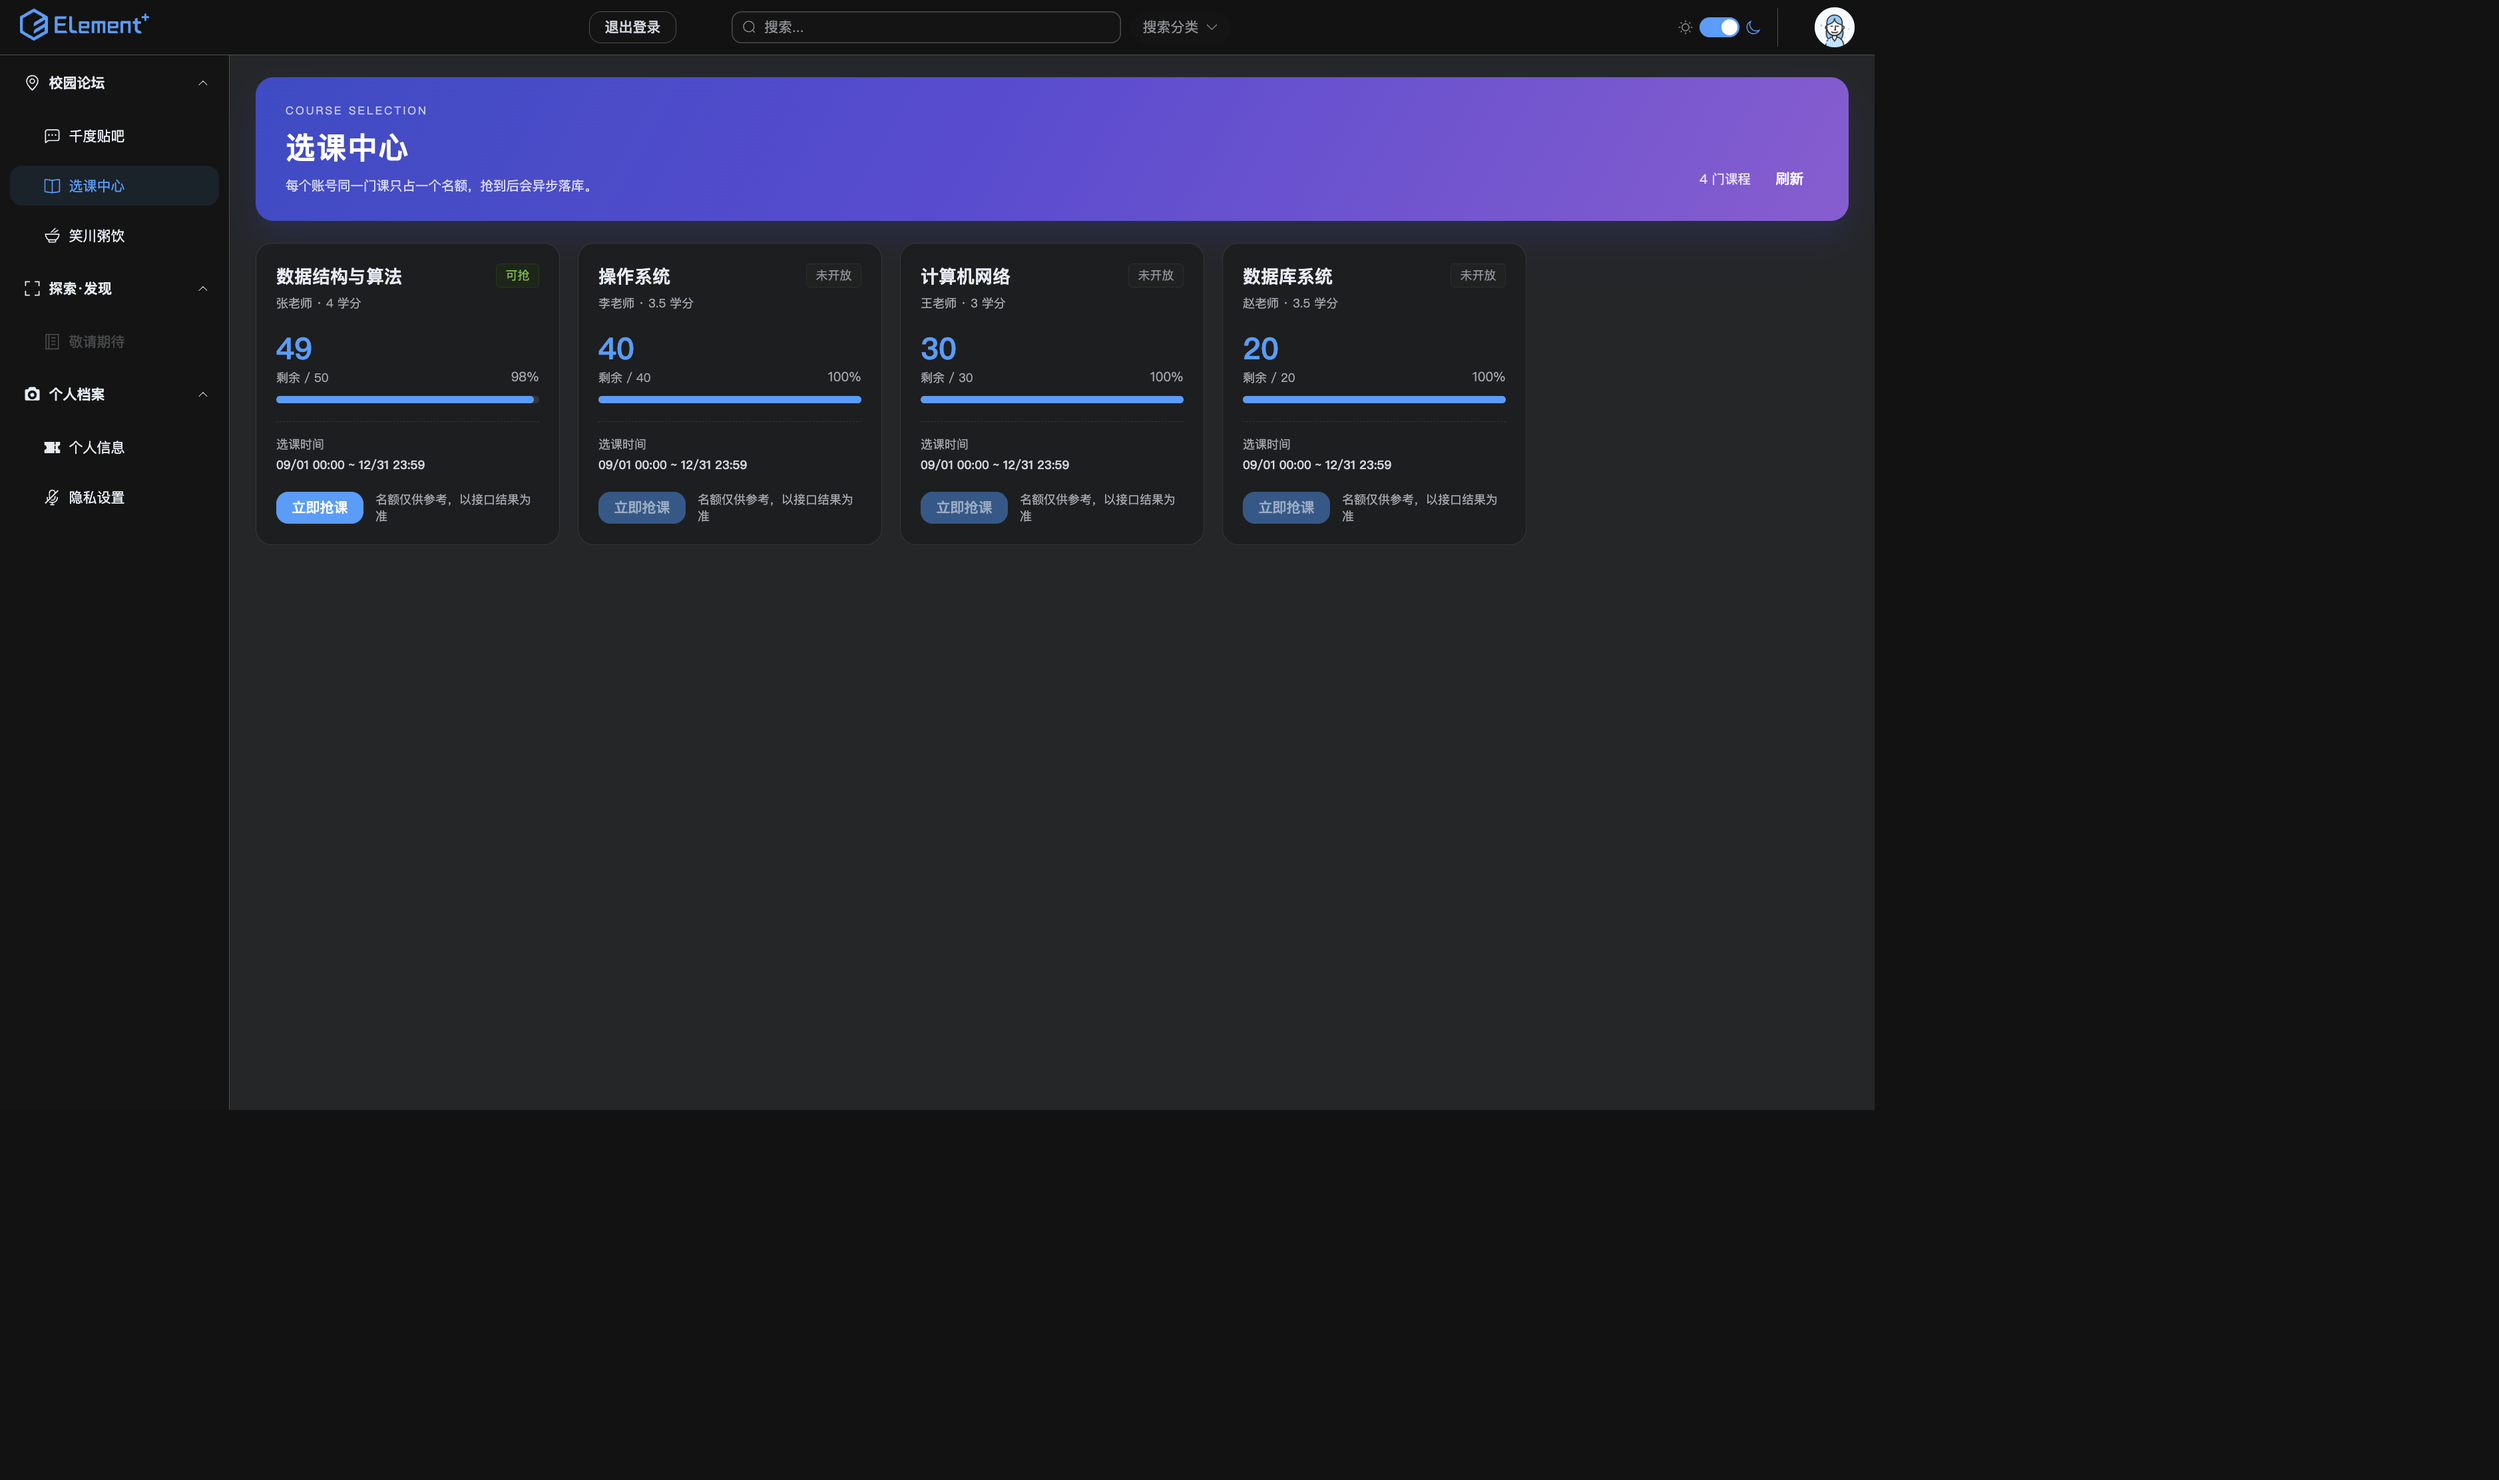
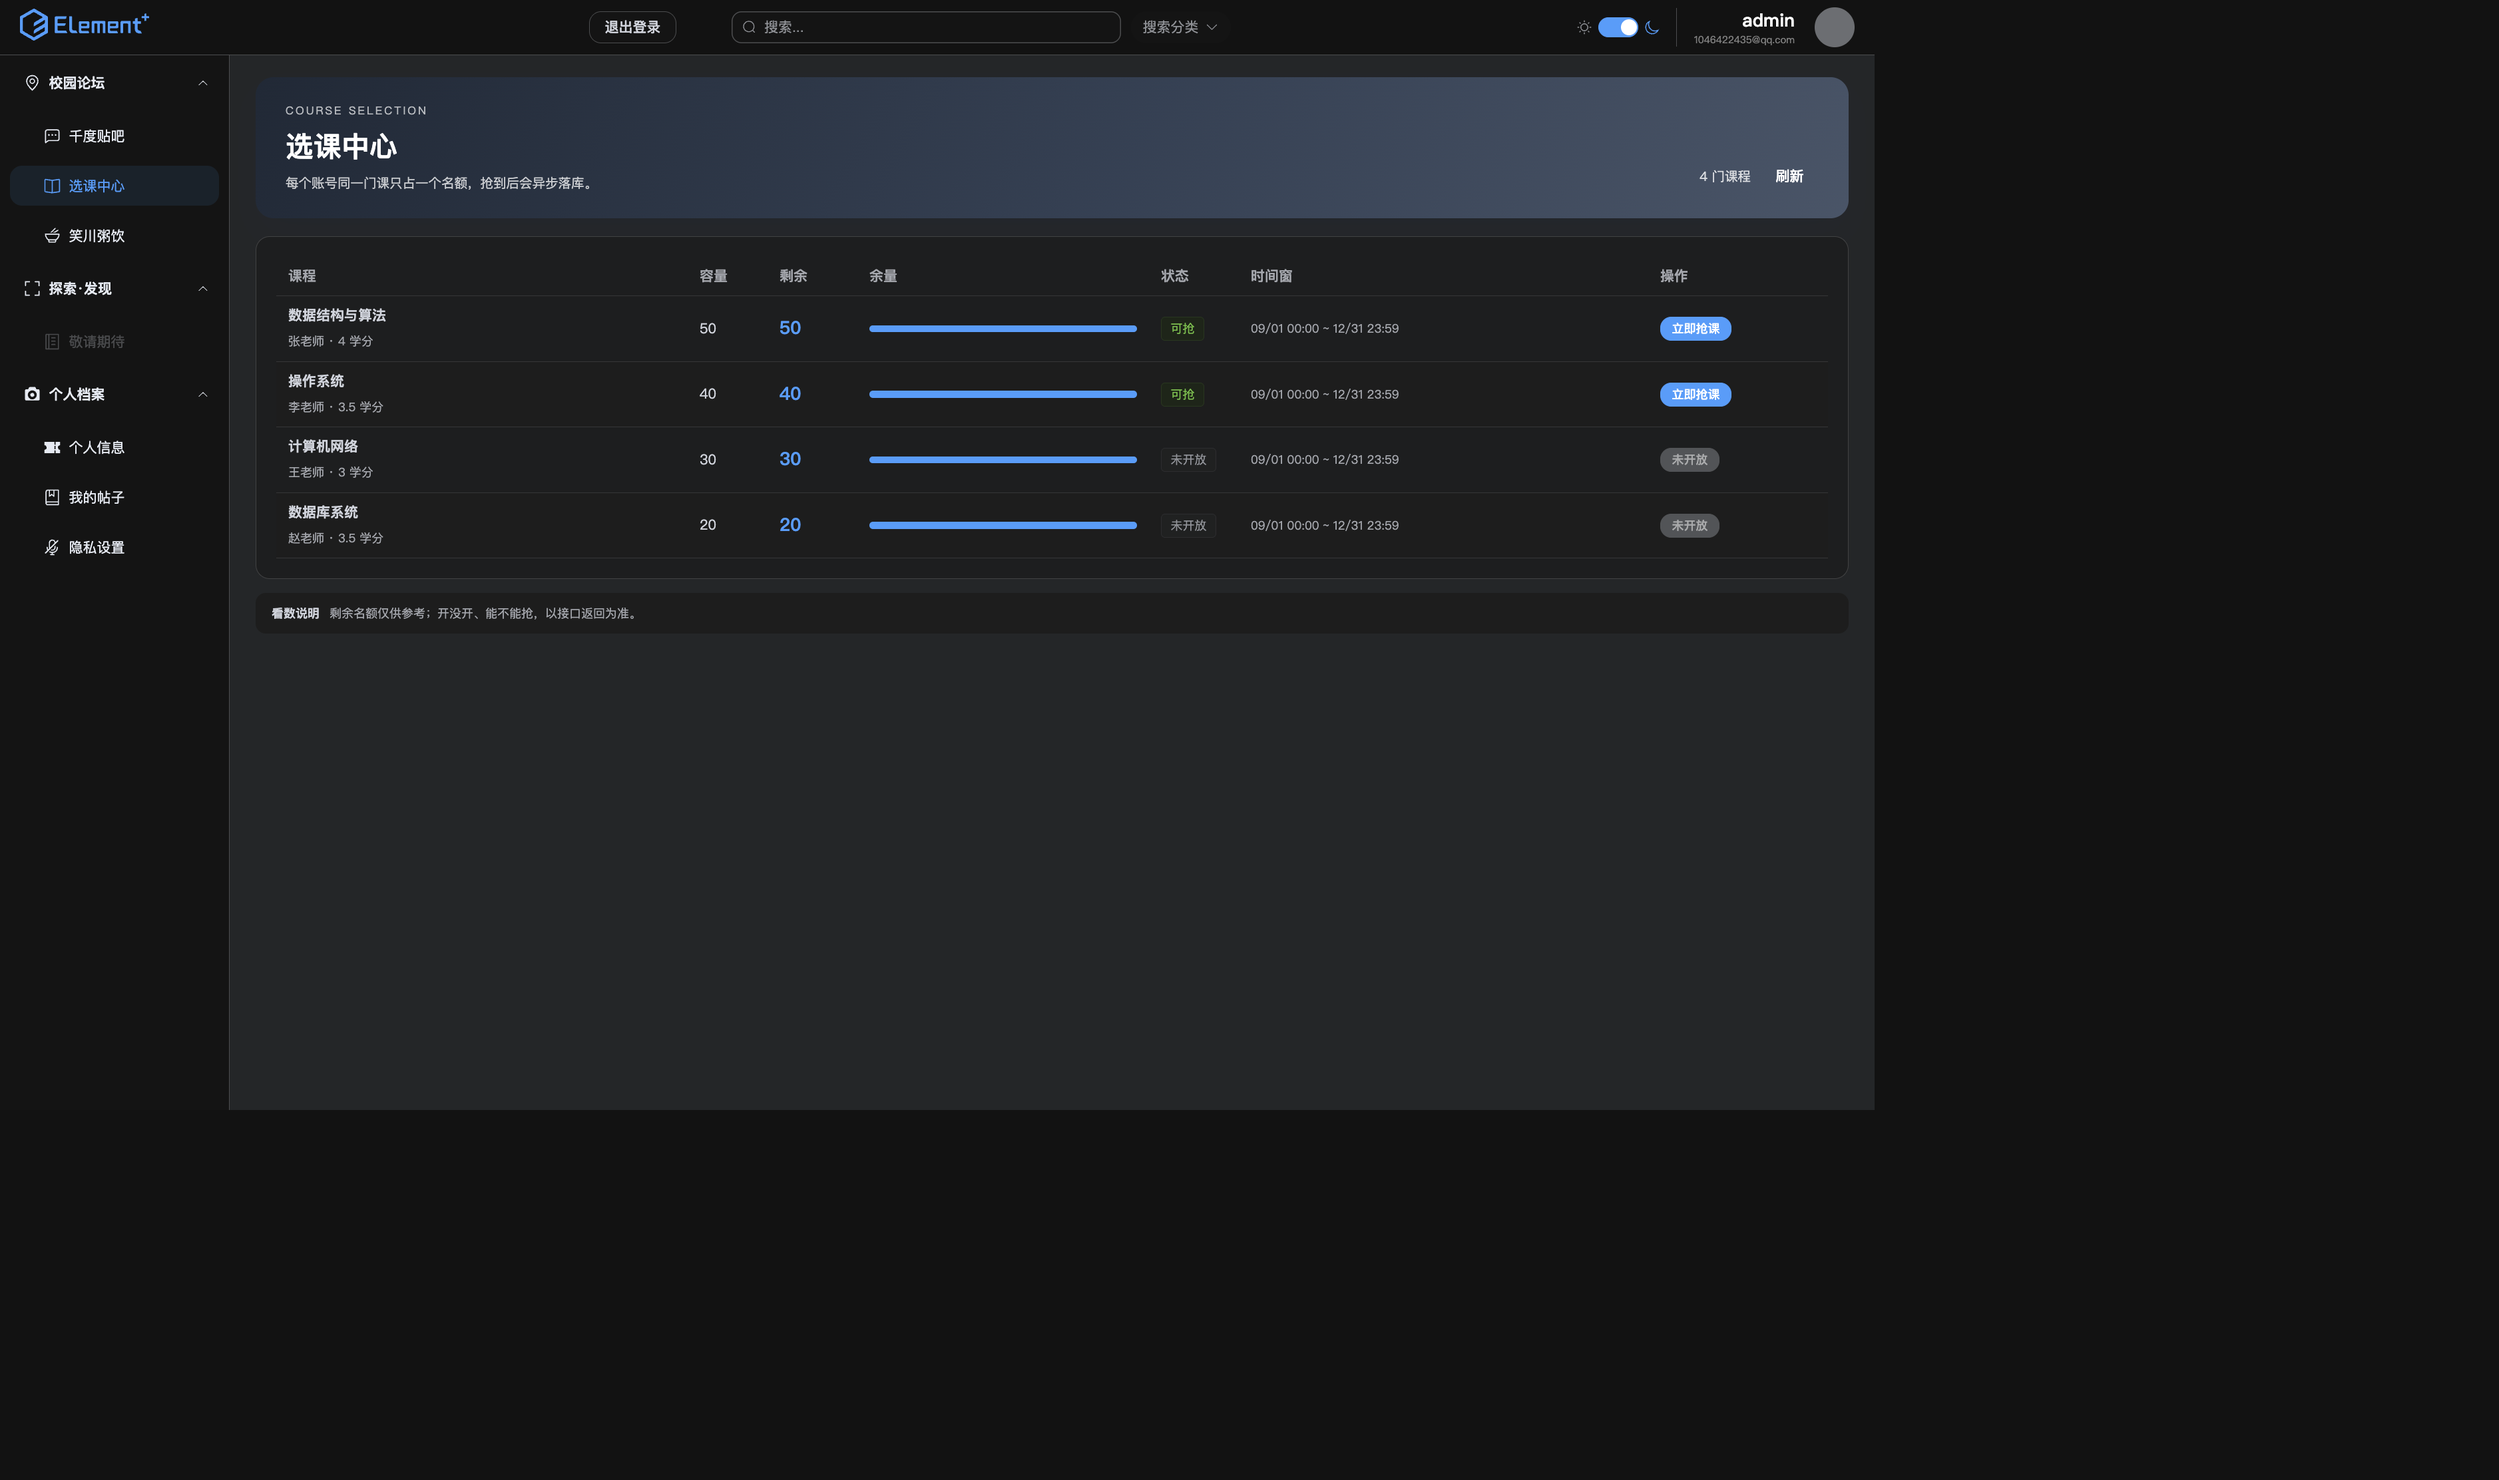
style: 选课页改成与课程管理一致的表格卡片

diff --git a/my-project-frontend/src/views/course/CourseSelection.vue b/my-project-frontend/src/views/course/CourseSelection.vue
@@ -61,6 +61,13 @@ function formatWindow(course) {
   return `${fmt(course.selectStart)} ~ ${fmt(course.selectEnd)}`
 }
 
+function buttonLabel(course) {
+  const state = stateOf(course.id)
+  if (state.busy) return '处理中'
+  const status = statusOf(course)
+  return status.canGrab ? '立即抢课' : status.label
+}
+
 function stopTimer(id) {
   const timer = timers.get(id)
   if (timer) {
@@ -154,46 +161,61 @@ onUnmounted(() => {
       </div>
     </div>
 
-    <div v-loading="loading" class="course-grid">
-      <el-card v-for="course in courses" :key="course.id" class="course-card" shadow="hover">
-        <div class="card-head">
-          <div>
-            <h3>{{ course.name }}</h3>
-            <div class="meta">{{ course.teacher }} · {{ course.credit }} 学分</div>
-          </div>
-          <el-tag :type="statusOf(course).type" effect="light">
-            {{ statusOf(course).label }}
-          </el-tag>
-        </div>
+    <el-card class="table-card" shadow="never">
+      <el-table v-loading="loading" :data="courses" stripe>
+        <el-table-column label="课程" min-width="190">
+          <template #default="{row}">
+            <div class="course-name">{{ row.name }}</div>
+            <div class="course-meta">{{ row.teacher }} · {{ row.credit }} 学分</div>
+          </template>
+        </el-table-column>
+        <el-table-column label="容量" width="80" prop="capacity"/>
+        <el-table-column label="剩余" width="90">
+          <template #default="{row}">
+            <span class="remaining">{{ row.remaining }}</span>
+          </template>
+        </el-table-column>
+        <el-table-column label="余量" min-width="135">
+          <template #default="{row}">
+            <el-progress :percentage="percent(row)" :show-text="false" :stroke-width="7"/>
+          </template>
+        </el-table-column>
+        <el-table-column label="状态" width="90">
+          <template #default="{row}">
+            <el-tag :type="statusOf(row).type" effect="light">
+              {{ statusOf(row).label }}
+            </el-tag>
+          </template>
+        </el-table-column>
+        <el-table-column label="时间窗" min-width="190">
+          <template #default="{row}">
+            <span class="time">{{ formatWindow(row) }}</span>
+          </template>
+        </el-table-column>
+        <el-table-column label="操作" width="180" fixed="right">
+          <template #default="{row}">
+            <el-button
+                size="small"
+                :type="statusOf(row).canGrab ? 'primary' : 'info'"
+                :loading="stateOf(row.id).busy"
+                :disabled="!statusOf(row).canGrab || stateOf(row.id).busy"
+                @click="grab(row)">
+              {{ buttonLabel(row) }}
+            </el-button>
+            <div v-if="stateOf(row.id).message" class="action-hint">
+              {{ stateOf(row.id).message }}
+            </div>
+          </template>
+        </el-table-column>
+      </el-table>
 
-        <div class="numbers">
-          <div>
-            <b>{{ course.remaining }}</b>
-            <span>剩余 / {{ course.capacity }}</span>
-          </div>
-          <div class="percent">{{ percent(course) }}%</div>
-        </div>
-        <el-progress :percentage="percent(course)" :show-text="false" :stroke-width="7"/>
+      <el-empty v-if="!loading && courses.length === 0" description="暂无课程"/>
+    </el-card>
 
-        <div class="time">
-          <span>选课时间</span>
-          <strong>{{ formatWindow(course) }}</strong>
-        </div>
-
-        <div class="card-foot">
-          <el-button
-              type="primary"
-              :loading="stateOf(course.id).busy"
-              :disabled="!statusOf(course).canGrab || stateOf(course.id).busy"
-              @click="grab(course)">
-            立即抢课
-          </el-button>
-          <span class="hint">{{ stateOf(course.id).message || '名额仅供参考，以接口结果为准' }}</span>
-        </div>
-      </el-card>
+    <div class="note">
+      <strong>看数说明</strong>
+      <span>剩余名额仅供参考；开没开、能不能抢，以接口返回为准。</span>
     </div>
-
-    <el-empty v-if="!loading && courses.length === 0" description="暂无课程"/>
   </div>
 </template>
 
@@ -209,29 +231,28 @@ onUnmounted(() => {
   align-items: flex-end;
   gap: 20px;
   padding: 26px 30px;
-  margin-bottom: 22px;
+  margin-bottom: 18px;
   border-radius: 18px;
   color: #fff;
-  background: linear-gradient(120deg, #3b4cca 0%, #5b4bd6 45%, #8e5bd6 100%);
-  box-shadow: 0 14px 35px rgba(59, 76, 202, .22);
+  background: linear-gradient(120deg, #1f2937 0%, #334155 55%, #475569 100%);
+  box-shadow: 0 14px 35px rgba(30, 41, 59, .2);
 }
 
 .eyebrow {
   font-size: 11px;
   letter-spacing: 2px;
-  opacity: .72;
+  opacity: .68;
   margin-bottom: 8px;
 }
 
 .hero h1 {
   margin: 0;
-  font-size: 30px;
-  letter-spacing: 1px;
+  font-size: 28px;
 }
 
 .hero p {
   margin: 8px 0 0;
-  opacity: .8;
+  opacity: .75;
   font-size: 13px;
 }
 
@@ -244,100 +265,59 @@ onUnmounted(() => {
 
 .course-count {
   font-size: 13px;
-  opacity: .85;
+  opacity: .8;
 }
 
 .hero :deep(.el-button) {
   color: #fff;
 }
 
-.course-grid {
-  display: grid;
-  grid-template-columns: repeat(auto-fill, minmax(300px, 1fr));
-  gap: 18px;
+.table-card {
+  border-radius: 14px;
 }
 
-.course-card {
-  border-radius: 16px;
-  border: 1px solid var(--el-border-color-lighter);
+.course-name {
+  font-weight: 600;
 }
 
-.card-head {
-  display: flex;
-  justify-content: space-between;
-  align-items: flex-start;
-  gap: 12px;
-}
-
-.card-head h3 {
-  margin: 0 0 6px;
-  font-size: 18px;
-}
-
-.meta {
+.course-meta {
+  margin-top: 3px;
   font-size: 12px;
   color: var(--el-text-color-secondary);
 }
 
-.numbers {
-  display: flex;
-  justify-content: space-between;
-  align-items: flex-end;
-  margin: 22px 0 10px;
-}
-
-.numbers b {
-  font-size: 30px;
-  line-height: 1;
+.remaining {
+  font-size: 18px;
+  font-weight: 600;
   color: var(--el-color-primary);
 }
 
-.numbers span {
-  display: block;
-  margin-top: 5px;
-  font-size: 12px;
-  color: var(--el-text-color-secondary);
-}
-
-.percent {
-  font-size: 13px;
-  color: var(--el-text-color-secondary);
-}
-
 .time {
-  display: flex;
-  flex-direction: column;
-  gap: 4px;
-  margin-top: 18px;
-  padding-top: 14px;
-  border-top: 1px dashed var(--el-border-color-lighter);
   font-size: 12px;
   color: var(--el-text-color-secondary);
 }
 
-.time strong {
-  font-weight: 500;
+.action-hint {
+  margin-top: 4px;
+  font-size: 11px;
+  color: var(--el-text-color-secondary);
+}
+
+.note {
+  display: flex;
+  gap: 10px;
+  align-items: baseline;
+  margin-top: 14px;
+  padding: 12px 16px;
+  border-radius: 10px;
+  background: var(--el-fill-color-lighter);
+  font-size: 12px;
+  color: var(--el-text-color-secondary);
+}
+
+.note strong {
   color: var(--el-text-color-regular);
-}
-
-.card-foot {
-  display: flex;
-  align-items: center;
-  gap: 12px;
-  margin-top: 18px;
-}
-
-.hint {
-  font-size: 12px;
-  color: var(--el-text-color-secondary);
-  line-height: 1.4;
-}
-
-@media (max-width: 680px) {
-  .hero {
-    flex-direction: column;
-    align-items: flex-start;
-  }
+  white-space: nowrap;
 }
 
 </style>
